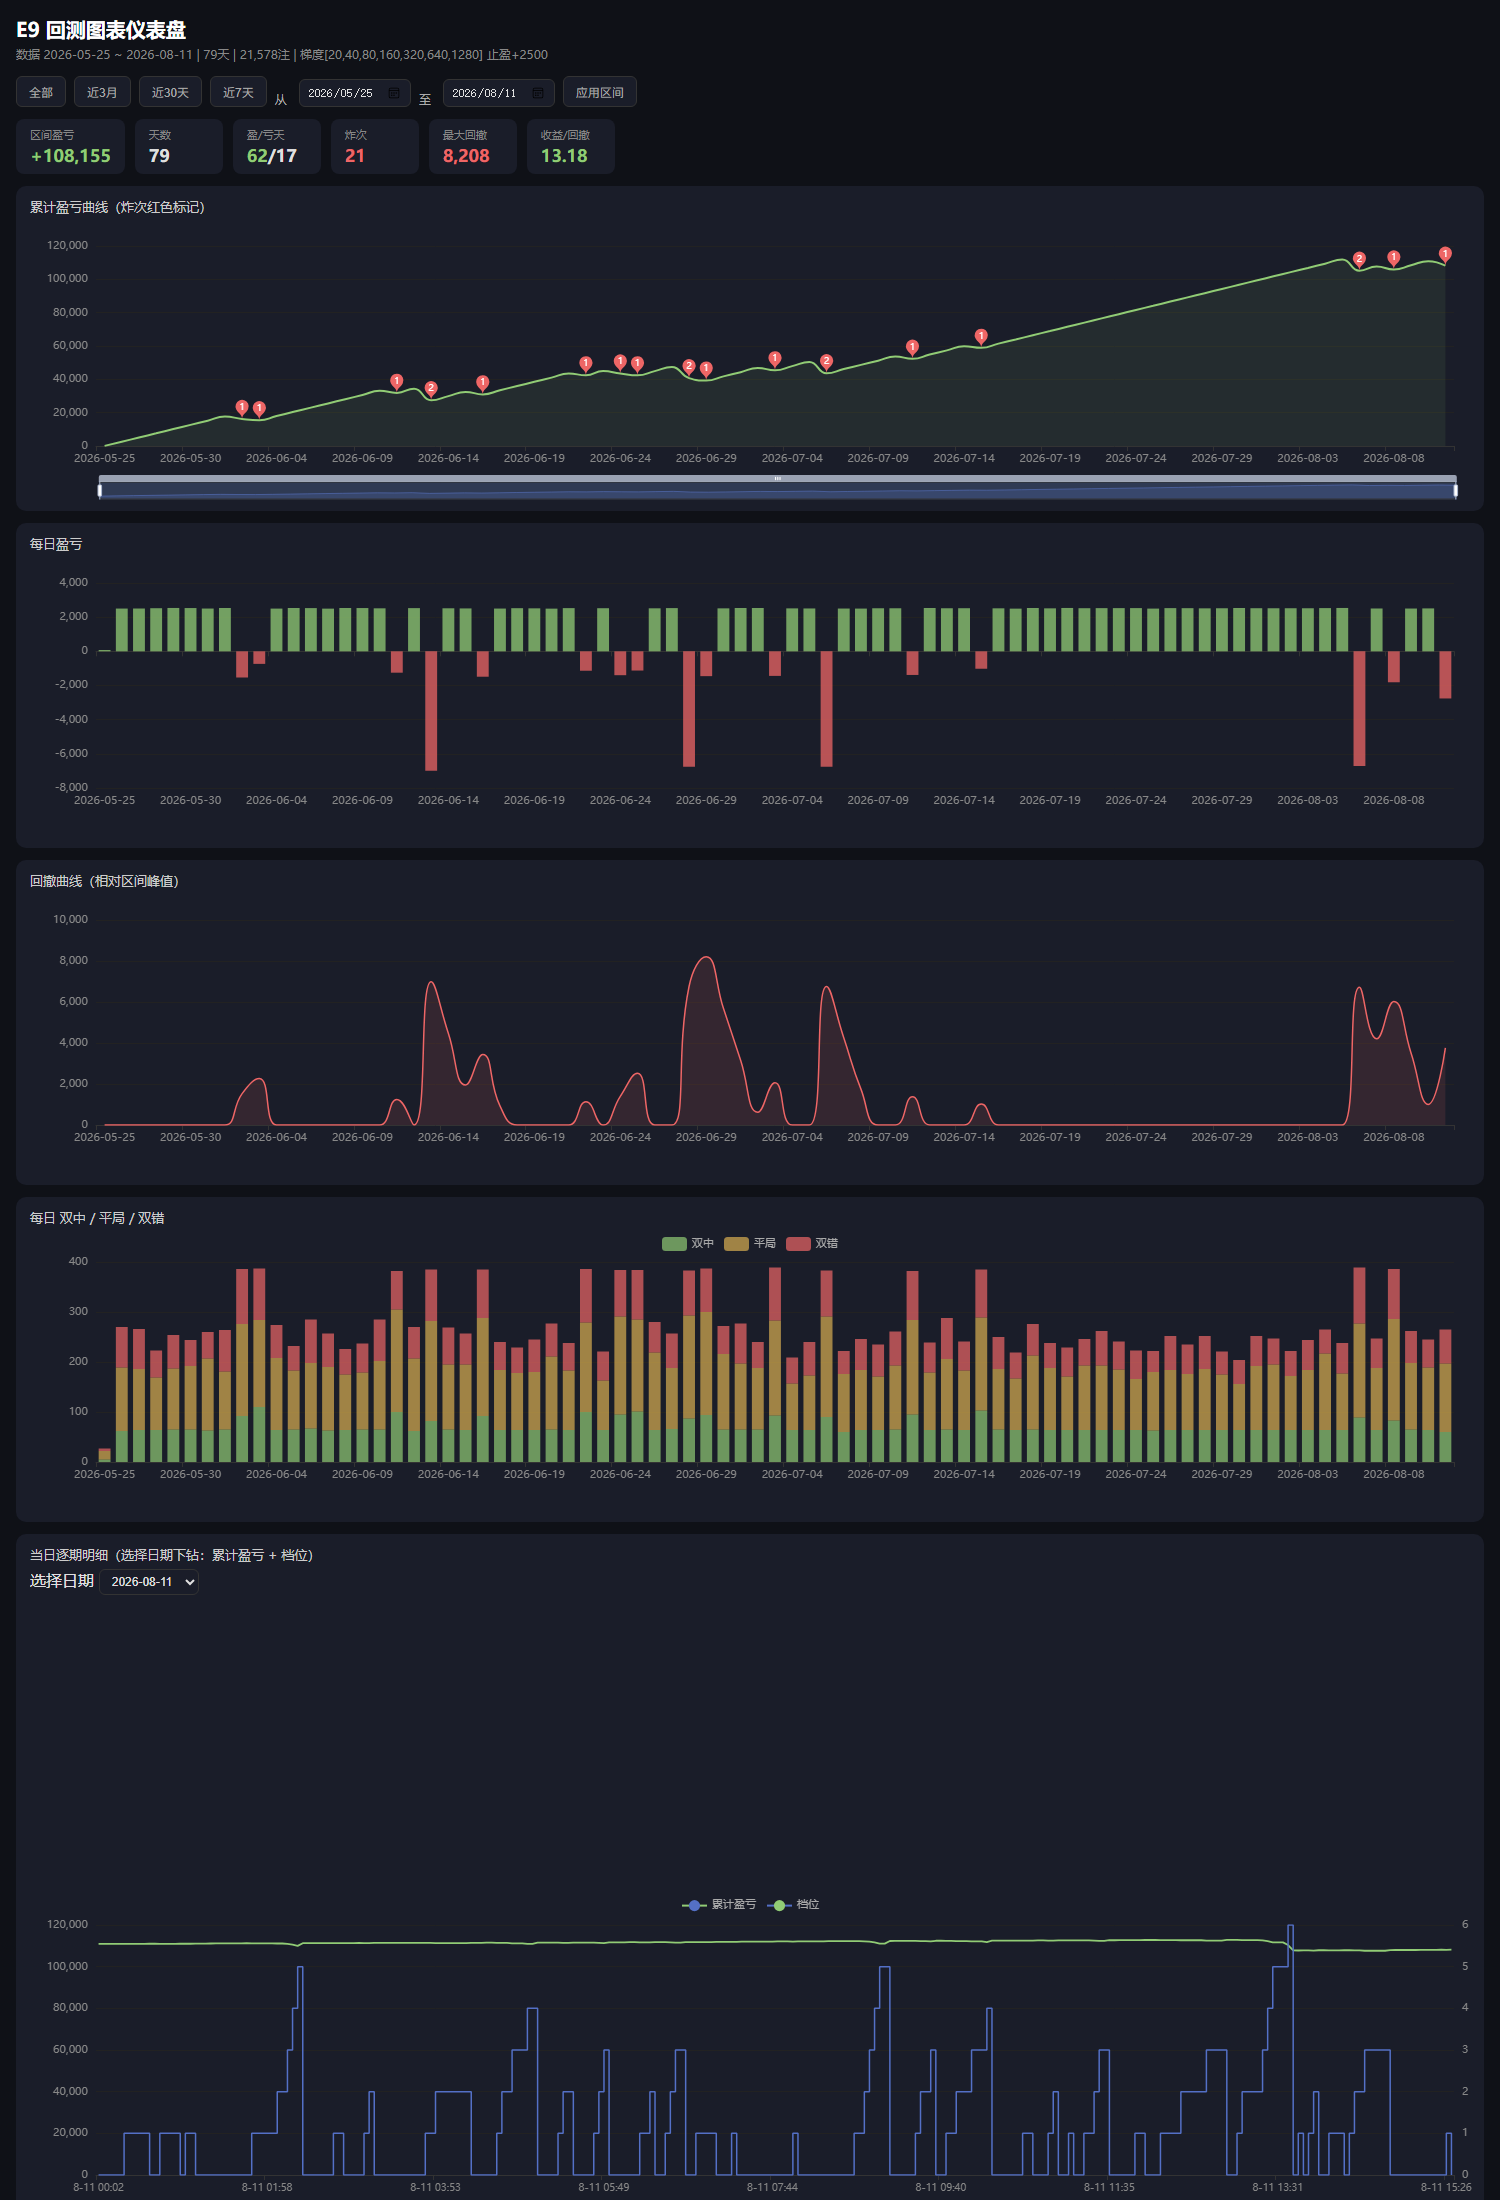
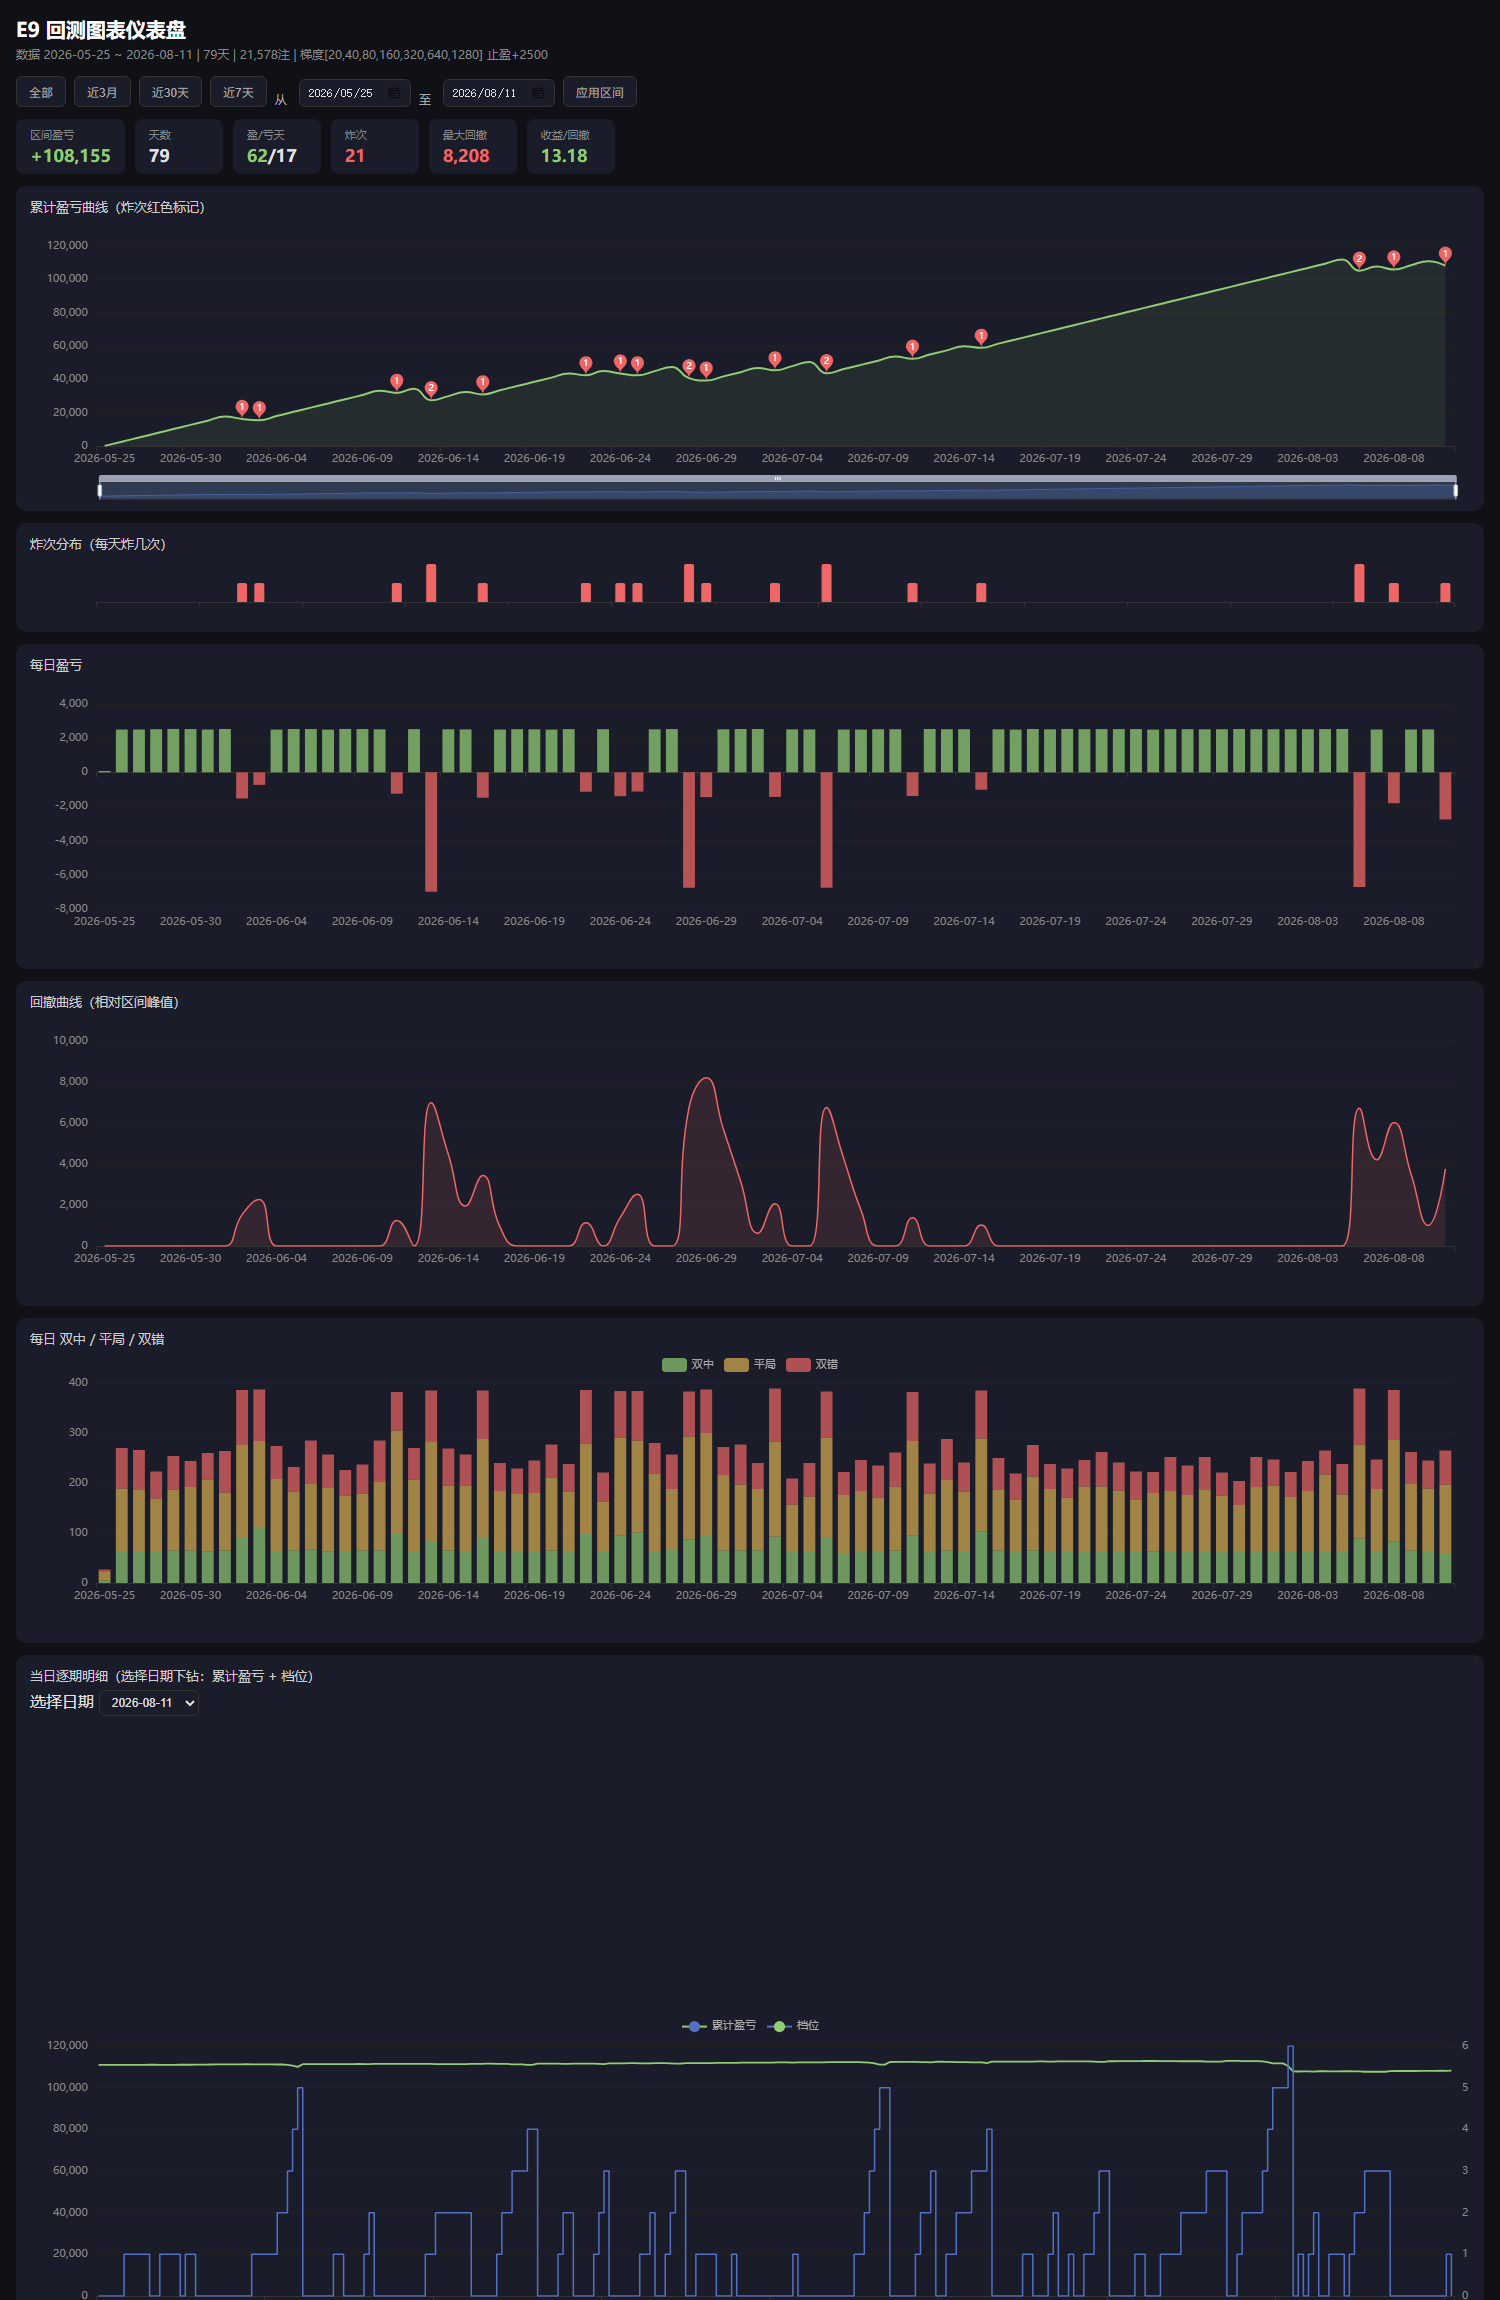
图表新增炸次分布条, 明确标注每天炸几次

diff --git a/backtest_chart.html b/backtest_chart.html
@@ -25,6 +25,7 @@
   .chart h3 { font-size:13px; color:#ccc; font-weight:500; margin:2px 0 6px 4px; }
   .chart div { width:100%; height:280px; }
   .chart.tall div { height:320px; }
+  .chart.strip div { height:64px; }
   @media (max-width:640px) { .chart div { height:220px; } .chart.tall div { height:260px; } }
 </style>
 </head>
@@ -45,6 +46,7 @@
 <div class="summary" id="summary"></div>
 
 <div class="chart"><h3>累计盈亏曲线（炸次红色标记）</h3><div id="equity"></div></div>
+<div class="chart strip"><h3>炸次分布（每天炸几次）</h3><div id="burststrip"></div></div>
 <div class="chart"><h3>每日盈亏</h3><div id="daily"></div></div>
 <div class="chart"><h3>回撤曲线（相对区间峰值）</h3><div id="drawdown"></div></div>
 <div class="chart"><h3>每日 双中 / 平局 / 双错</h3><div id="outcomes"></div></div>
@@ -69,7 +71,7 @@ $('to').value = DAYS[DAYS.length-1];
 $('subtitle').textContent = `数据 ${cfg.first_date} ~ ${cfg.last_date} | ${days.length}天 | ${cfg.bets.toLocaleString()}注 | 梯度[${cfg.ladder.join(',')}] 止盈+${cfg.stop_profit}`;
 
 const charts = {};
-['equity','daily','drawdown','outcomes','drilldown'].forEach(id => {
+['equity','burststrip','daily','drawdown','outcomes','drilldown'].forEach(id => {
   charts[id] = echarts.init($(id), null, {renderer:'canvas'});
 });
 window.addEventListener('resize', () => Object.values(charts).forEach(c => c.resize()));
@@ -131,6 +133,19 @@ function drawAll(sel) {
     series:[{type:'line',data:cum,smooth:true,symbol:'none',lineStyle:{color:'#91cc75',width:2},areaStyle:{color:'rgba(145,204,117,0.12)'},
       markPoint:{symbol:'pin',symbolSize:22,data:burstIdx.map(b=>({coord:b.value,value:b.times,itemStyle:{color:'#ee6666'},
         label:{show:true,formatter:'{c}',color:'#fff',fontSize:9,position:'inside'}}))}}]
+  }, {notMerge:true});
+
+  const bmax = Math.max(1, ...sel.map(d=>d.br));
+  charts.burststrip.setOption({
+    tooltip:Object.assign({}, TT, { formatter:p=>{
+      const i=safeIdx(p); if (i<0 || i>=sel.length) return '';
+      const d=sel[i];
+      return `${dates[i]} · 炸 ${d.br} 次`; }}),
+    grid:{left:70,right:20,top:6,bottom:20},
+    xAxis:{type:'category',data:dates,axisLabel:{show:false},axisLine:{lineStyle:{color:'#333'}}},
+    yAxis:{type:'value',min:0,max:bmax,interval:1,show:false},
+    series:[{type:'bar',data:sel.map(d=>d.br>0?d.br:null),barMaxWidth:10,
+      itemStyle:{color:'#ee6666',borderRadius:[2,2,0,0]}}]
   }, {notMerge:true});
 
   charts.daily.setOption({

diff --git a/generate_chart.py b/generate_chart.py
@@ -128,6 +128,7 @@ TEMPLATE = r"""<!DOCTYPE html>
   .chart h3 { font-size:13px; color:#ccc; font-weight:500; margin:2px 0 6px 4px; }
   .chart div { width:100%; height:280px; }
   .chart.tall div { height:320px; }
+  .chart.strip div { height:64px; }
   @media (max-width:640px) { .chart div { height:220px; } .chart.tall div { height:260px; } }
 </style>
 </head>
@@ -148,6 +149,7 @@ TEMPLATE = r"""<!DOCTYPE html>
 <div class="summary" id="summary"></div>
 
 <div class="chart"><h3>累计盈亏曲线（炸次红色标记）</h3><div id="equity"></div></div>
+<div class="chart strip"><h3>炸次分布（每天炸几次）</h3><div id="burststrip"></div></div>
 <div class="chart"><h3>每日盈亏</h3><div id="daily"></div></div>
 <div class="chart"><h3>回撤曲线（相对区间峰值）</h3><div id="drawdown"></div></div>
 <div class="chart"><h3>每日 双中 / 平局 / 双错</h3><div id="outcomes"></div></div>
@@ -172,7 +174,7 @@ $('to').value = DAYS[DAYS.length-1];
 $('subtitle').textContent = `数据 ${cfg.first_date} ~ ${cfg.last_date} | ${days.length}天 | ${cfg.bets.toLocaleString()}注 | 梯度[${cfg.ladder.join(',')}] 止盈+${cfg.stop_profit}`;
 
 const charts = {};
-['equity','daily','drawdown','outcomes','drilldown'].forEach(id => {
+['equity','burststrip','daily','drawdown','outcomes','drilldown'].forEach(id => {
   charts[id] = echarts.init($(id), null, {renderer:'canvas'});
 });
 window.addEventListener('resize', () => Object.values(charts).forEach(c => c.resize()));
@@ -234,6 +236,19 @@ function drawAll(sel) {
     series:[{type:'line',data:cum,smooth:true,symbol:'none',lineStyle:{color:'#91cc75',width:2},areaStyle:{color:'rgba(145,204,117,0.12)'},
       markPoint:{symbol:'pin',symbolSize:22,data:burstIdx.map(b=>({coord:b.value,value:b.times,itemStyle:{color:'#ee6666'},
         label:{show:true,formatter:'{c}',color:'#fff',fontSize:9,position:'inside'}}))}}]
+  }, {notMerge:true});
+
+  const bmax = Math.max(1, ...sel.map(d=>d.br));
+  charts.burststrip.setOption({
+    tooltip:Object.assign({}, TT, { formatter:p=>{
+      const i=safeIdx(p); if (i<0 || i>=sel.length) return '';
+      const d=sel[i];
+      return `${dates[i]} · 炸 ${d.br} 次`; }}),
+    grid:{left:70,right:20,top:6,bottom:20},
+    xAxis:{type:'category',data:dates,axisLabel:{show:false},axisLine:{lineStyle:{color:'#333'}}},
+    yAxis:{type:'value',min:0,max:bmax,interval:1,show:false},
+    series:[{type:'bar',data:sel.map(d=>d.br>0?d.br:null),barMaxWidth:10,
+      itemStyle:{color:'#ee6666',borderRadius:[2,2,0,0]}}]
   }, {notMerge:true});
 
   charts.daily.setOption({
